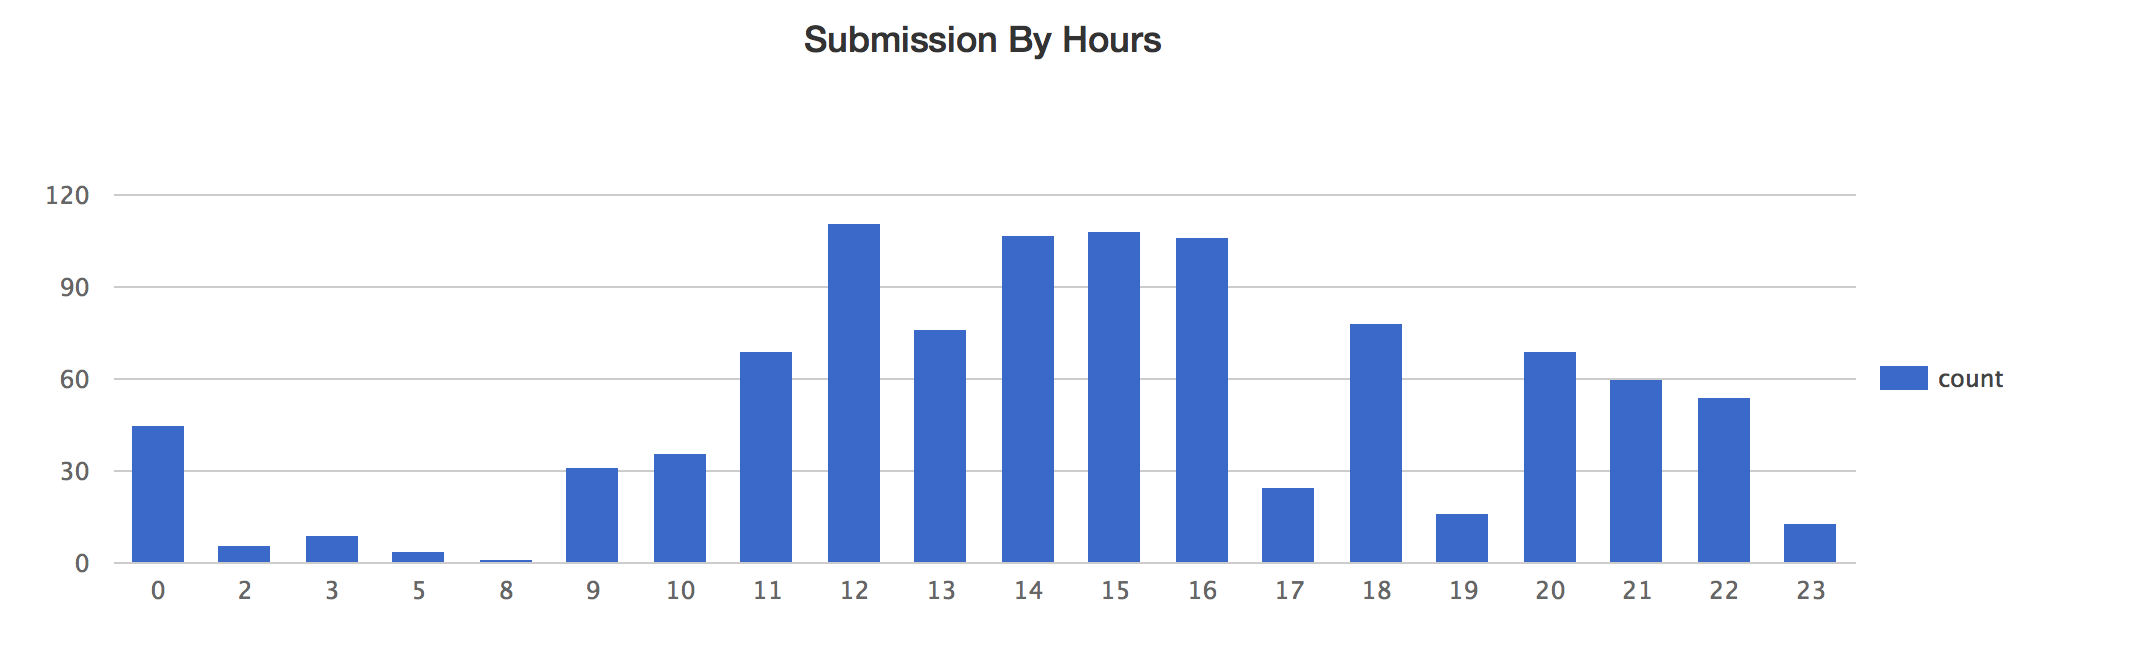
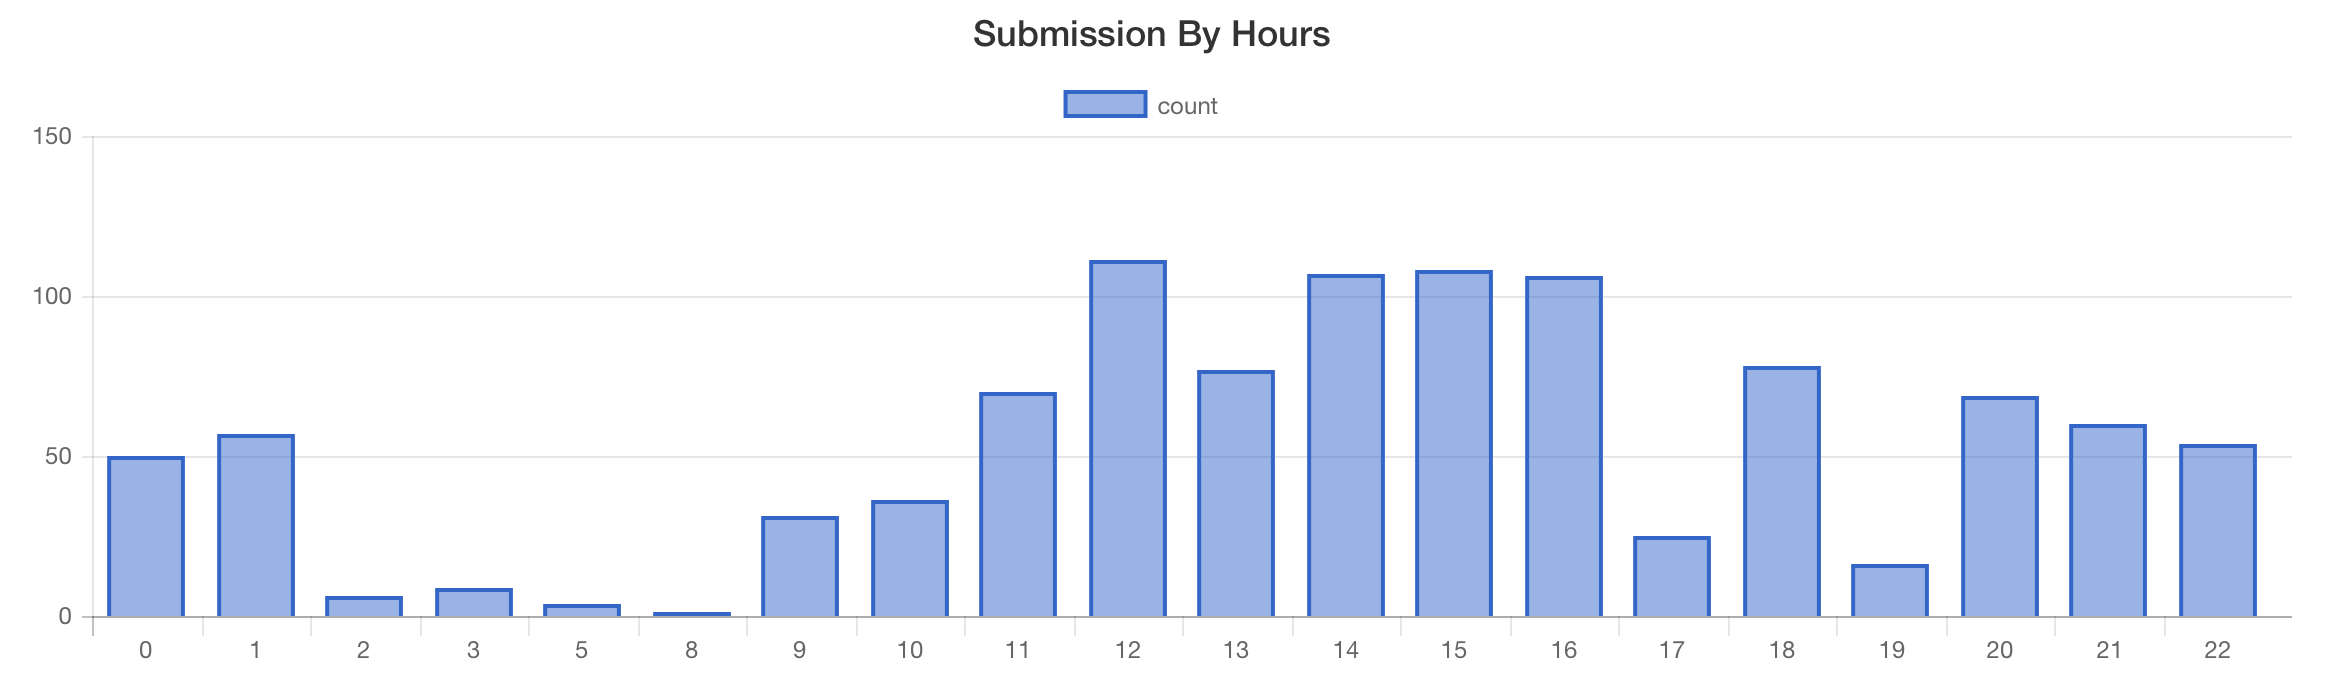
Lots of results and graphs, make images bigger overall. UGH

diff --git a/contents/results-stats.md b/contents/results-stats.md
@@ -1,0 +1,69 @@
+# Usage & Statistics
+The first part of our analysis will be to look at how often and when students were submitting their labs. This data was obtained from aggregate information in the λ Submissions database as well as from bCourses to compare to non-autograded labs.
+
+### Basic Statistics
+
+* Total Number of students in CS10: 169
+* Total Number of student using the autograder: 149 (86%)
+
+| Lab # | Oral Checkoffs | Autograder Checkoffs |
+| ------| -------------- | -------------------- |
+| 10	| 145			 | N/A					|
+| 11	| 34			 | 133					|
+| 12	| 57			 | 80					|
+| 13	| 132			 | N/A					|
+| 14	| 97			 | 64					|
+| 15	| 142			 | N/A					|
+
+Note this data has some anomalies due to bug in the initial setup, and confusion among course staff:
+
+* Lab 11 had a bug posting scores through LTI for the first day. Some TA's mistakenly submitted scores twice. There is some overlap of those 34 students.
+* Lab 14 had a bug in one exercise causing many students to get checked off by both methods.
+
+We can look at the number of times that students tried the autograder:
+
+![Number of students by number of questions attempted](./images/questions-attempted-num-of-students.png)
+
+What this shows us is that, though students were only required to complete one lab using the autograder, nearly 2/3 (93/149) found the autograder compelling enough to try a second time. From talking to students and staff, a portion of the drop off in students using the autograder may be due to the fact that the autograder doesn't handle pairs of students. Given that the later labs are some of the more difficult, many students may choose to work in pairs.
+
+### Submission Times
+The second thing to look at is _when_ students are submitting their work. While we certainly still want students to attend lab, improving the "at home" experience for students would be a significant benefit. Here, we see that students are choosing to use the autograder at home, with usage patterns that you would expect from undergraduates.
+
+These charts show the overall submission times for each of the three labs. The red bar indicates the date that the lab was due for full credit.
+
+![Lab 11 submission times by day.](./images/SS Lab 11.png)
+
+![Lab 12 submission times by day.](./images/SS Lab 12.png)
+
+![Lab 14 submission times by day.](./images/SS Lab 14.png)
+
+These graphs don't reveal anything too surprising. For the most part, students are using the autograder to complete labs at the same pace they normally would.
+
+We can look at the days of the week as well as the time of day to see when students are working on labs. Normal lab times are usually between 9:00-19:00, though this varies by the day of the week.
+
+![Number of autograder submissions by hour of the day.](./images/SS Labs By Hour.png)
+
+![Number of autograder submissions by day of the week.](./images/labs-day-of-week.png)
+
+Again, these graphs are fairly close to what course staff would expect. Most students are continuing to complete labs during their scheduled time, but a significant number are working at home.
+
+## Time Savings
+While time savings are not a primary motivation for this work, we should consider the potential benefits that could be saved be allowing students to get checked off using the autograder. Anecdotally, oral lab checkoffs take between 2 to 10 minutes to complete, with the average time somewhere around 3 to 4 minutes. The current usage patterns (as well as the results in the next section), suggest that we can expect 33%-50% of students to use the autograder. 
+
+If we have 15 labs which use Snap<em>!</em>, and 150 students completing labs, and assume that a lab checkoff takes 3 minutes: 33% of students the autograder would free up approximately 38 hours of TA time. (This is slightly under 30% of the total workload for a single 8 hour per week TA appointment at Berkeley.)
+
+However, if we have 15 labs which use Snap<em>!</em>, and 300 students completing labs, and assume that a lab checkoff takes 4 minutes: 50% of students the autograder would free up approximately 150 hours of TA time. (This is 110% of the total workload for a single 8 hour per week TA appointment at Berkeley.)
+
+Naturally, this might lead one to question the value of oral lab checkoffs. That's not the goal here at all. Oral lab checkoffs have been an incredible positive pedagogical tool. While writing tests can take some time, the hope is that the cost would aromatize itself well over many semesters. 
+
+## Submission Patterns
+We can also look at how often students attempt each question. This shows whether students are using the autograder more as a feedback tool, as a crutch or as simply a credit mechanism. While there's no clear exact number of times a student should use submit their work, it's clear that we want an overall 'happy-medium'. 
+
+![Most students appear to only submit once at the end of their work.](./images/num-students-times-submitted.png)
+
+The data show that most students appear to be submitting only once, meaning they're not currently getting much benefit by the feedback presented. If there were more feedback presented, or potentially more challenging questions this might change. Though not yet implemented, non-graded feedback such as code quality suggestions might change the way students work to use the autograder. 
+
+![Number of students by number of times submitted for each lab.](./images/submissions-count-combined.png)
+
+These results also how a really long tail for the number of submissions by some students. This is to be expected with any autograder. However, from looking at the data, and from TA reports many of these high submission numbers may be due to the previously mentioned bugs. (Students tried submitting many times simply hoping that the errors would disappear.)
+

diff --git a/contents/implementation-web-app.md b/contents/implementation-web-app.md
@@ -78,13 +78,13 @@ After completing the OAuth handshake, the TP (our application) checks for the pr
 
 * If a `question_id` is provided, then λ will load the specific question. Currently LTI doesn't provide a standard interface for loading a specific resource, so if an instructor passes in this value, students will automatically be redirected to the proper question.
 * A grade passback URL is optional. If the application sees this URL, it will post a score back to the TC. If the URL is missing, then λ skips posting a score but still saves the submission to the local database.
-* User Info: 
+* User Info: If the instructional staff choose to, they can configure the LMS to send "Public" information to λ. (Public here means, what FERPA defines are directory information. In the case of UC Berkeley, this includes the student's name, email, and user ID, specifically different from their student ID. **REF?**) If the TC doesn't send public information, then it will send an obfuscated hash to identify each student. Again, this primarily only affects the analysis capabilities provided to TAs. 
 
 #### Need For (Regular) OAuth
+Unfortunately, despite the advantages of LTI, we found that traditional OAuth was still a necessary component. The primary motivation was the need for site admins, and TAs who can login without having to go through a LMS. We're using Google as an OAuth provider in addition to LTI. In the future, we would also like to connect the Snap<em>!</em> cloud account system through OAuth, but this is waiting on enhancements to the Snap<em>!</em> cloud.
+
+This feature can be useful for students as well, once we build out student dashboards. However, in order to be effective, we'll need a way to associate LTI accounts with OAuth accounts. Though not fully implemented, we will be able to automatically associate accounts for students if they share the same email address. For campuses setup like Berkeley, this will the default case for most students since their Google account and the LMS account originate from the same campus systems. If the emails don't automatically match, we should be able to provide this functionality by emailing activation codes. 
 
 ## Security Concerns
-...
-	* edX JS Input
-	* Moving to LTI
-	* Dedicated Database
-		* Simpler JS Test
+Finally, we need to discuss a significant concern about security. Currently, the autograder test files are implemented in plain JavaScript, and are served alongside the rest of the page content. This means there's a fairly gaping hole allowing for Cross-Site-Scripting (XSS) vulnerabilities. The current mitigating factor is that only trusted accounts with an admin flag can upload test cases. This is an acceptable limitation for now, but in the [Future Work](./future-work.md) chapter we describe a potential way around this by allowing test cases to be written in Snap<em>!</em>, then securely complied to JS on the serverside.
+

diff --git a/contents/source-code.md b/contents/source-code.md
@@ -2,7 +2,7 @@
 
 &nbsp; <!-- disable the big T-->
 
-The code for all projects in this report is available in various reoisitories on Github.
+The code for all projects in this report is available in various repositories on Github.
 
 * [cycomachead/lambda][] contains the main Rails web application.
 * [cycomachead/lambda-evaluator][] contains the JavaScript source that talks to Snap<em>!</em>.
@@ -18,3 +18,9 @@ The code for all projects in this report is available in various reoisitories on
 [CS10]: https://github.com/cs10
 [beautjoy]: https://github.com/beautjoy
 [bjc-edc]: https://github.com/bjc-edc
+
+The graphs in this report were generated primarily using the [blazer][blazer] gem for Rails, and this report was produced using the [GitBook][gitbook] ebook tool. You can [read it online][view].
+
+[blazer]: https://github.com/ankane/blazer
+[gitbook]: https://gitbook.com
+[view]: https://cycomachead.gitbook.com/thesis

diff --git a/SUMMARY.md b/SUMMARY.md
@@ -5,9 +5,13 @@
 * [Acknowledgements](contents/acknowledgements.md)
 * [List of Figures](contents/figures.md)
 * [Introduction](contents/introduction.md)
+
+<!--
 	* [Snap!](contents/introduction.md#snap)
 	* [BJC](contents/introduction.md#the-beauty-and-joy-of-computing)
 	* [CS10](contents/introduction.md#cs10)
+-->
+
 * [Related Work](contents/related-work.md)
 * [Design Principles](contents/design.md)
 * [Walkthrough](contents/walkthrough.md)
@@ -16,7 +20,11 @@
 	* [The Autograder Interface](contents/implementation-autograder.md)
 * [Experimental Setup](contents/trial.md)
 * [Results](contents/results.md)
-* [Lessons Learned](contents/lessons.md)
+	* [Usage Analysis](contents/results-stats.md)
+	* [Survey Analysis](contents/results-survey.md)
+<!--
+		* [Lessons Learned](contents/lessons.md)
+-->
 * [Future Work](contents/future-work.md)
 * [Conclusion](contents/conclusion.md)
 * [References](contents/references.md)

diff --git a/contents/results.md b/contents/results.md
@@ -1,1 +1,10 @@
 # Results
+Over the course of three lab assignments, we found that students used the autograder to complete labs outside of course time. While we have no basis for when (or how often) students completed labs at home without the autograder, this shows that students are at least receiving the benefits of feedback when a TA is not present.
+
+Secondly, when we surveyed students, they were almost evenly split between preferring oral lab checkoffs or the autograder. Given the lab setup, and the differing advantages for each environment, this is what we would hope for.
+
+*Note*, unlike other educational studies, we are *not* trying to claim any learning gains from this system.
+
+<!--
+	Do we need to prove that feedback is beneficial?
+-->

diff --git a/contents/results-survey.md b/contents/results-survey.md
@@ -1,0 +1,2 @@
+# Survey Feedback & Analysis
+
